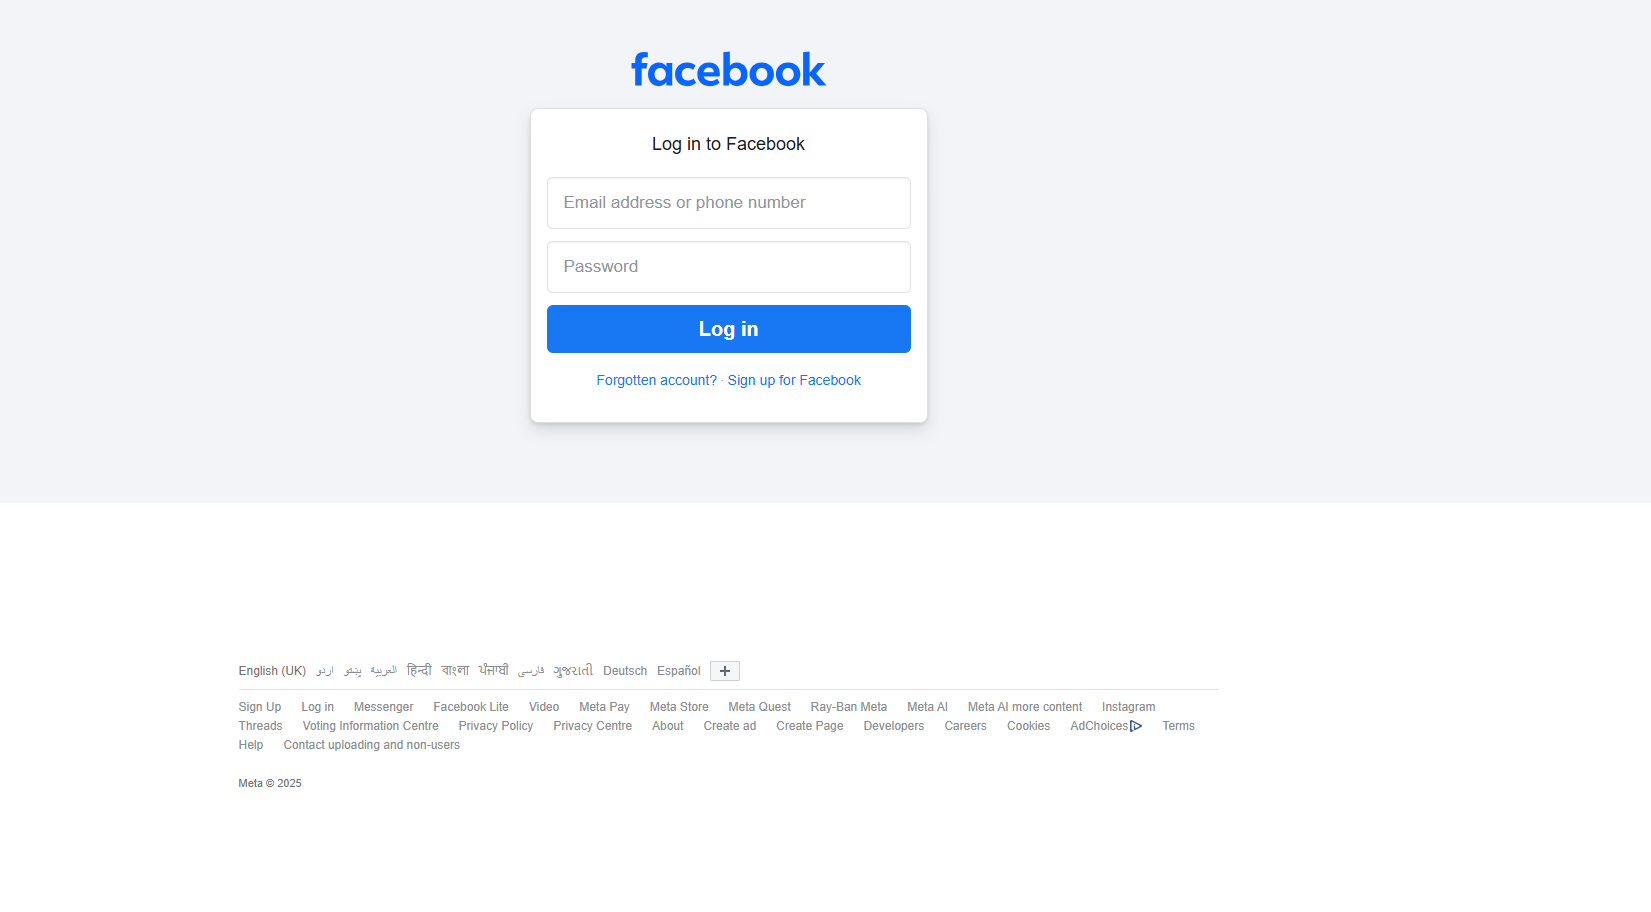
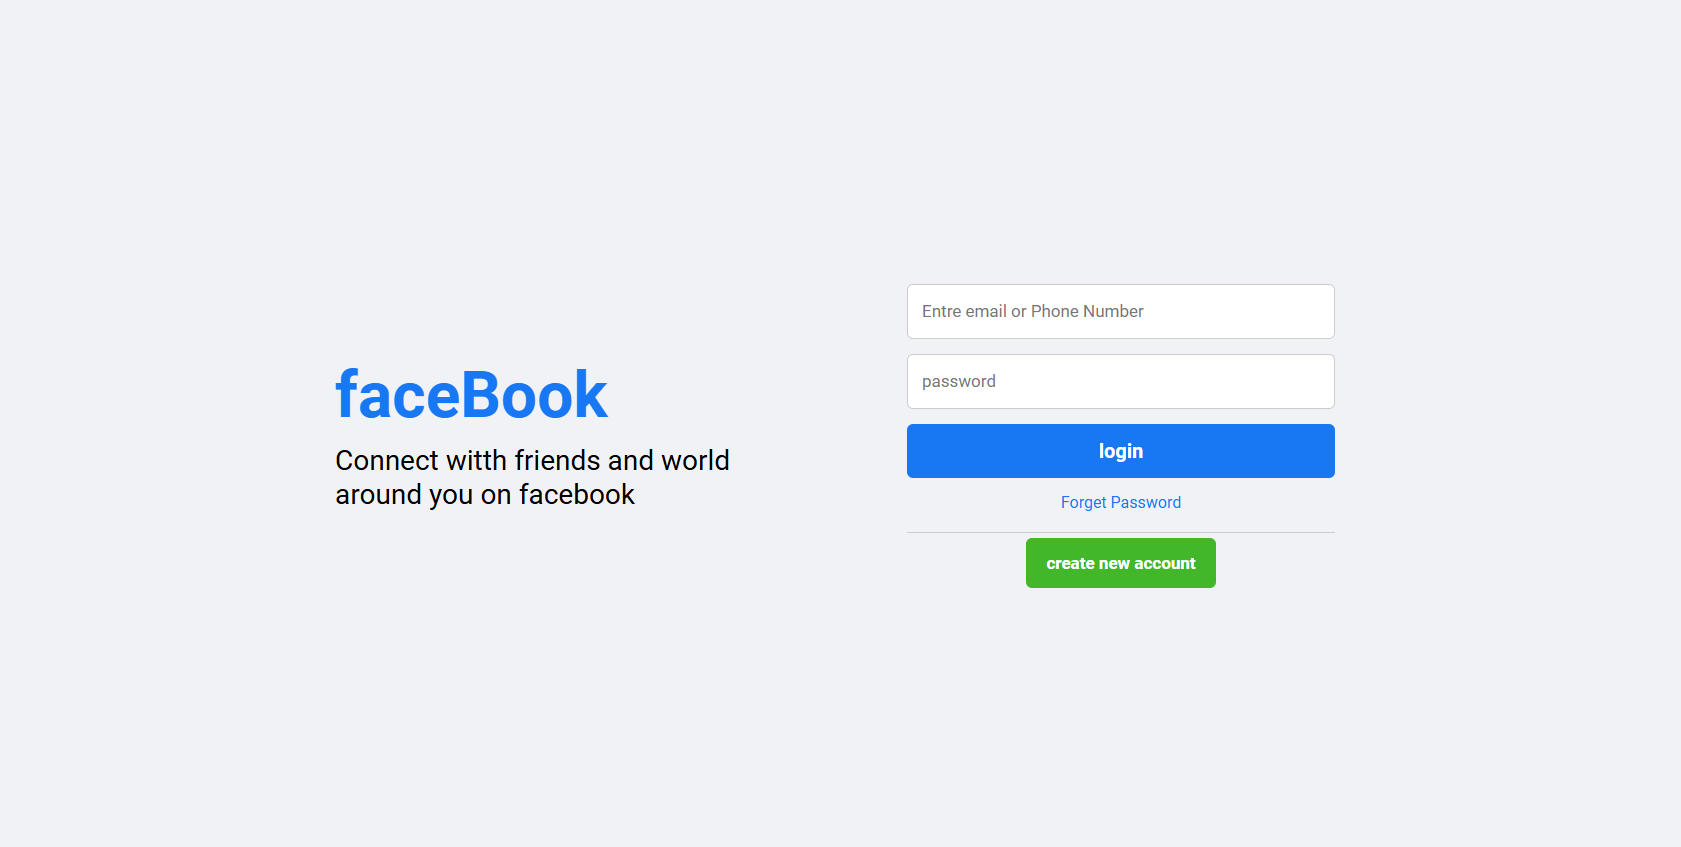
final 1.0 commit - protfolio

diff --git a/index.html b/index.html
@@ -261,7 +261,7 @@
         <h2>Latest <span>Project </span></h2>
         <div class="protfolio-content">
             <div class="row">
-                <img src="pic/project1.jpg" alt="Facebook Login Clone">  
+                <img src="pic/facebook.png" alt="Facebook Login Clone">  
                 <div class="layer">
                     <h5>Facebook Login Page – Frontend</h5>
                     <p>A responsive clone of the Facebook login page built with HTML, CSS, featuring a clean layout, interactive input fields, and mobile-friendly design.</p>
@@ -269,37 +269,33 @@
                 </div>
             </div>
             <div class="row">
-                <img src="pic/project2.jpg" alt="E-commerce App">  
+                <img src="pic/pic3.jpg" alt="Prototype: Royal Battle">  
                 <div class="layer">
-                    <h5>E-commerce Mobile App</h5>
-                    <p>A full-featured e-commerce application with product listings, shopping cart, and payment integration using Java and Firebase.</p>
+                    <h5>Prototype: Royal Battle</h5>
+                    <p>As part of a Software Requirements Engineering (SRE) project, we developed a prototype for Royal Battle,
+                         a next-gen battle royale game for iOS and Android. The project focused on performance optimization, smooth multiplayer gameplay, and user-centric UI/UX.</p>
                     <a href="#"><i class="bx bx-link-external"></i></a> 
                 </div>
             </div>
             <div class="row">
-                <img src="pic/project3.jpg" alt="Weather Dashboard">  
+                <img src="pic/mad_1.jpeg" alt="Weather Dashboard">  
                 <div class="layer">
-                    <h5>Weather Dashboard</h5>
-                    <p>Interactive weather dashboard that displays current and forecasted weather data using API integration and dynamic UI updates.</p>
+                    <h5>Shop Car</h5>
+                    <p>🚗 Car Shopping Android App – Built a multi-screen app in Java using Firebase Realtime Database & Glide. Features include browsing cars by category, detailed car pages with images, and a modern UI. Implemented with RecyclerView, ViewBinding, 
+                        and ConstraintLayout for smooth performance and real-time sync.</p>
                     <a href="#"><i class="bx bx-link-external"></i></a> 
                 </div>
             </div>
             <div class="row">
-                <img src="pic/project4.jpg" alt="Task Management App">  
+                <img src="pic/mad_2.jpeg" alt="Task Management App">  
                 <div class="layer">
-                    <h5>Task Management App</h5>
-                    <p>A productivity application for managing tasks with drag-and-drop functionality, reminders, and cloud synchronization.</p>
+                    <h5>The DuXck </h5>
+                    <p>Built a secure signup & login app in Java (Android Studio) with Firebase Authentication,
+                         form validation, and a clean UI using ConstraintLayout.</p>
                     <a href="#"><i class="bx bx-link-external"></i></a> 
                 </div>
             </div>
-            <div class="row">
-                <img src="pic/project5.jpg" alt="Fitness Tracker">  
-                <div class="layer">
-                    <h5>Fitness Tracker App</h5>
-                    <p>Mobile application for tracking workouts, nutrition, and progress with data visualization and personalized recommendations.</p>
-                    <a href="#"><i class="bx bx-link-external"></i></a> 
-                </div>
-            </div>
+    
         </div> 
     </div>
  </div>

diff --git a/script.js b/script.js
@@ -1,5 +1,5 @@
 var typed=new Typed(".highlight",{
-    strings: ["Software Developer & Freelance","Frontend Developer","Web Development","Mobile App Development","UI/UX Design","Microsoft Power Platform → PowerApps, Power Automate, SharePoint"],
+    strings: ["Software Developer & Freelance","Frontend Developer","Web Developer","Mobile App Developer","UI/UX Designner","Microsoft Power Platform → PowerApps, Power Automate, SharePoint"],
 typeSpeed:100,
 backSpeed:100,
 backDelay:1000,

diff --git a/style.css b/style.css
@@ -572,7 +572,7 @@ animation: sideBottom 0.5s ease forwards;
 .row img {
     width: 100%;
     height: 250px;
-    object-fit: cover;
+    object-fit: contain;
     display: block;
     transition: transform 0.5s ease;
 }

diff --git a/README.md b/README.md
@@ -1,0 +1,69 @@
+# Portfolio Website
+
+A modern, responsive portfolio website showcasing my skills, projects, and services as a software developer and freelancer.
+
+## 🌟 Features
+
+- **Modern UI/UX Design**: Clean, professional design with smooth animations
+- **Fully Responsive**: Optimized for all devices (desktop, tablet, mobile)
+- **Interactive Elements**: Animated skill bars, typing effect, and hover animations
+- **Comprehensive Sections**:
+  - Hero section with introduction
+  - About me with detailed background
+  - Services offered
+  - Technical and professional skills with visual indicators
+  - Project portfolio with hover effects
+  - Contact form with validation
+
+## 🛠 Technologies Used
+
+- **Frontend**: HTML5, CSS3, JavaScript
+- **Icons**: Boxicons, Font Awesome
+- **Typography**: Typed.js for animated text effects
+- **Design**: Custom CSS with modern effects and animations
+
+## 📱 Sections Overview
+
+### Home Section
+- Personal introduction with animated typing text
+- Social media links with hover effects
+- Professional profile picture with glowing border effect
+
+### About Section
+- Detailed professional background
+- Skills and specialization areas
+- Downloadable resume option
+
+### Services Section
+- Mobile App Development
+- Full Stack Development
+- Software Development
+- UI/UX Design
+
+### Skills Section
+- **Technical Skills**: HTML, CSS, Java, JavaScript, XML, Figma with animated progress bars
+- **Professional Skills**: Creativity, Communication, Team Leadership, Problem Solving, Teamwork with radial progress indicators
+
+### Projects Section
+- Facebook Login Page Clone
+- Royal Battle Game Prototype
+- Car Shopping Android App
+- Authentication App with Firebase
+
+### Contact Section
+- Contact information
+- Social media links
+- Functional contact form
+
+## 🎨 Design Features
+
+- **Color Scheme**: Dark theme with cyan accent colors (#0ef)
+- **Animations**: Smooth scroll effects, fade-ins, and progress animations
+- **Visual Effects**: Glowing borders, box shadows, and hover transitions
+- **Layout**: Grid and flexbox for responsive design
+
+## 📋 Setup Instructions
+
+1. Clone the repository:
+```bash
+git clone [your-repo-url]
